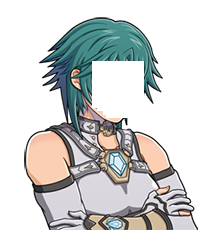
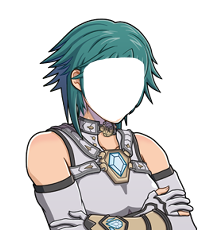
Megail the Gold

diff --git a/Bust Config.rb b/Bust Config.rb
@@ -34,8 +34,6 @@ Busty::FACE_TO_BUST = {
   "Z Andra emo" => nil, # To only allow face 4, see below
   "Z Andra emoN" => nil, # No bust for no robe Andra
   "Z Orcent" => "Orcent1",
-  # Unsupported supermodes
-  "Megail emo2g" => nil,
 }
 
 Busty::SUBSET_TO_BUST = [
@@ -581,7 +579,7 @@ Busty::BASE_CONFIG.merge!({
   "Megail" => {
     bust_scale: 0.80,
     face_offset_x: 60,
-    face_offset_y: 39,
+    face_offset_y: 40,
     face_z: -1,
   },
   "Melymyn" => {
@@ -1116,6 +1114,11 @@ Busty::MESSAGE_CONFIG.merge!({
     original: "Hilstara",
     faces: ["Hilstara emo3"],
     bust: "HilstaraKnight",
+  },
+  {
+    original: "Megail",
+    faces: ["Megail emo2g"],
+    bust: "MegailGold",
   },
   {
     original: "Nalili",
